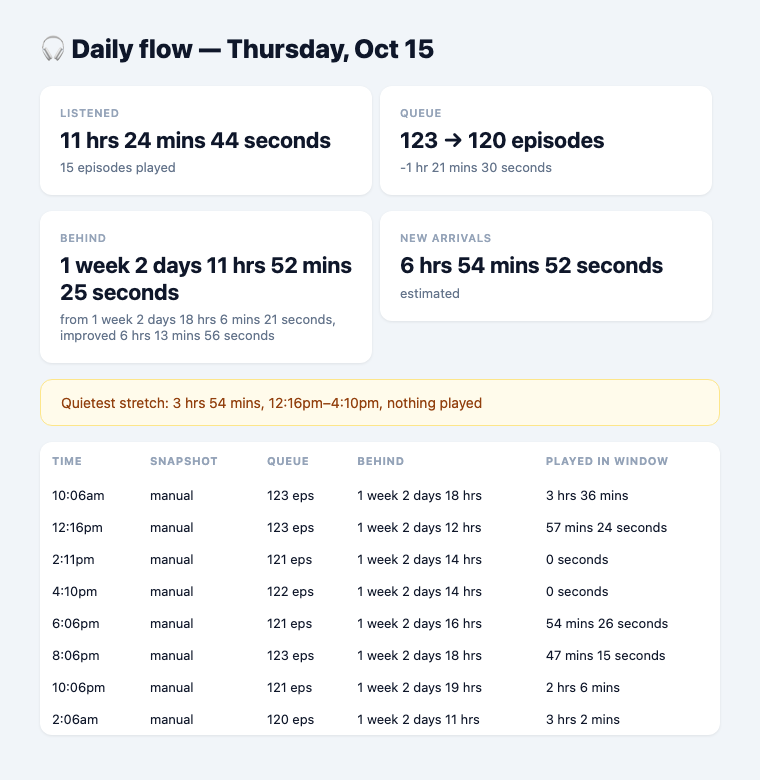
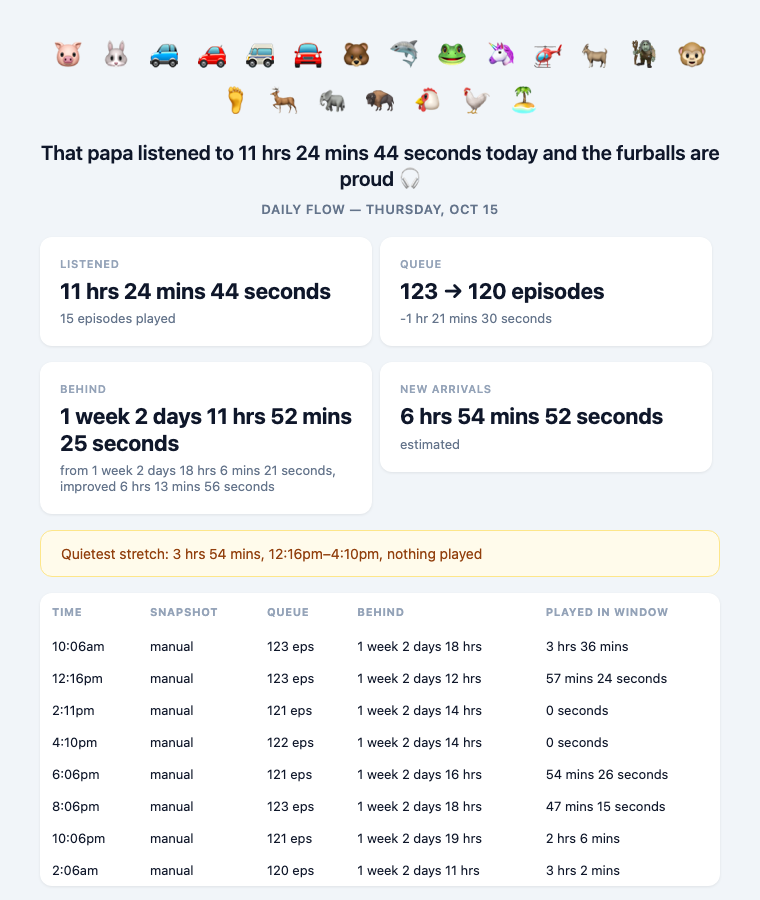
Flow reports: the whole cast on top, and a 'That papa' headline
The emoji header and the 'That papa ...' voice from the main report now open
the daily and weekly flow reports too, with a tagline for how the day treated
the backlog.

diff --git a/flow.py b/flow.py
@@ -254,12 +254,38 @@ def behind_phrase(delta):
     return f"{'improved' if delta < 0 else 'slipped'} {dur(delta)}"
 
 
+def mood(delta):
+    """The tagline: how the day treated the backlog."""
+    if round(delta) < 0:
+        return "and the furballs are proud"
+    if round(delta) == 0:
+        return "and held the line"
+    return "and the backlog crept up"
+
+
+def day_headline(s):
+    return f"That papa listened to {dur(s['listened_seconds'])} today {mood(s['behind_delta'])} 🎧"
+
+
+def week_headline(w):
+    return f"That papa listened to {dur(w['listened_seconds'])} this week {mood(w['behind_delta'])} 🎧"
+
+
+def emoji_row_html():
+    return "".join(
+        f'<span style="display:inline-block;margin:5px 10px;">{e}</span>'
+        for e in ps.EMOJI_POOL
+    )
+
+
 def render_day_chat(s, tz=None):
     if not s["snapshots"]:
         return f"🎧 Daily flow — {pretty_day(s['day'])}\nNo snapshots recorded."
     qs, qe = s["queue_start"], s["queue_end"]
     n = len(s["snapshots"])
     lines = [
+        ps.emoji_header(),
+        day_headline(s),
         f"🎧 Daily flow — {pretty_day(s['day'])}",
         f"Listened: {dur(s['listened_seconds'])} · {s['listened_count']} episodes played · {n} snapshots",
         f"Queue: {qs['queue_count']} → {qe['queue_count']} episodes "
@@ -296,6 +322,8 @@ def render_week_chat(w, tz=None):
     first, last = w["days"][0]["day"], w["days"][-1]["day"]
     best = w["best"]
     lines = [
+        ps.emoji_header(),
+        week_headline(w),
         f"🎧 Weekly flow — {first.strftime('%b %-d')} to {last.strftime('%b %-d')}",
         f"Listened: {dur(w['listened_seconds'])} across {len(w['days'])} days, "
         f"{dur(w['average_seconds'])} a day on average",
@@ -326,18 +354,24 @@ def _card(label, value, sub=""):
     )
 
 
-def _page(title, body):
+def _page(title, body, headline=None):
+    headline_html = (
+        f'<div style="text-align:center;font-size:20px;font-weight:600;margin-bottom:8px;">'
+        f'{html.escape(headline)}</div>' if headline else ""
+    )
     return f"""<!DOCTYPE html>
 <html><head><meta charset="utf-8"><title>{html.escape(title)}</title></head>
 <body style="margin:0;background:#f1f5f9;font-family:-apple-system,BlinkMacSystemFont,'Segoe UI',Roboto,sans-serif;color:#0f172a;">
 <div style="max-width:680px;margin:0 auto;padding:32px 20px;">
-<div style="font-size:26px;font-weight:800;margin-bottom:4px;">{html.escape(title)}</div>
+<div style="text-align:center;font-size:28px;line-height:1.3;margin-bottom:16px;">{emoji_row_html()}</div>
+{headline_html}
+<div style="text-align:center;font-size:13px;font-weight:600;color:#64748b;text-transform:uppercase;letter-spacing:0.6px;">{html.escape(title)}</div>
 {body}
 </div></body></html>"""
 
 
 def render_day_html(s, tz=None):
-    title = f"🎧 Daily flow — {pretty_day(s['day'])}"
+    title = f"Daily flow — {pretty_day(s['day'])}"
     if not s["snapshots"]:
         return _page(title, "<p>No snapshots recorded.</p>")
     qs, qe = s["queue_start"], s["queue_end"]
@@ -396,11 +430,11 @@ def render_day_html(s, tz=None):
         "<th style='padding:12px;'>Played in window</th></tr>"
         f"{body_rows}</table>"
     )
-    return _page(title, "".join(parts))
+    return _page(title, "".join(parts), day_headline(s))
 
 
 def render_week_html(w, tz=None):
-    title = "🎧 Weekly flow"
+    title = "Weekly flow"
     if not w["days"]:
         return _page(title, "<p>No snapshots recorded this week.</p>")
     best = w["best"]
@@ -429,7 +463,7 @@ def render_week_html(w, tz=None):
         "<th style='padding:12px;'>Day</th><th style='padding:12px;'>Listened</th>"
         f"<th style='padding:12px;'>Queue</th></tr>{day_rows}</table>"
     )
-    return _page(title, body)
+    return _page(title, body, week_headline(w))
 
 
 def email_payload(subject, body_html):

diff --git a/tests/test_flow.py b/tests/test_flow.py
@@ -208,6 +208,17 @@ class RenderTests(unittest.TestCase):
         self.assertIn("🚐 Dash 10:00am–6:00pm", text)
         self.assertIn("Listened:", text)
 
+    def test_the_whole_cast_is_in_every_report(self):
+        for emoji in ("🐷", "🦄", "🏝"):
+            self.assertIn(emoji, flow.render_day_chat(self.s, NY))
+            self.assertIn(emoji, flow.render_day_html(self.s, NY))
+
+    def test_headline_has_the_papa_voice(self):
+        self.assertIn("That papa listened to", flow.day_headline(self.s))
+        self.assertIn("the furballs are proud", flow.mood(-100))
+        self.assertIn("held the line", flow.mood(0))
+        self.assertIn("the backlog crept up", flow.mood(100))
+
     def test_html_is_a_page_and_escapes(self):
         page = flow.render_day_html(self.s, NY)
         self.assertTrue(page.startswith("<!DOCTYPE html>"))
